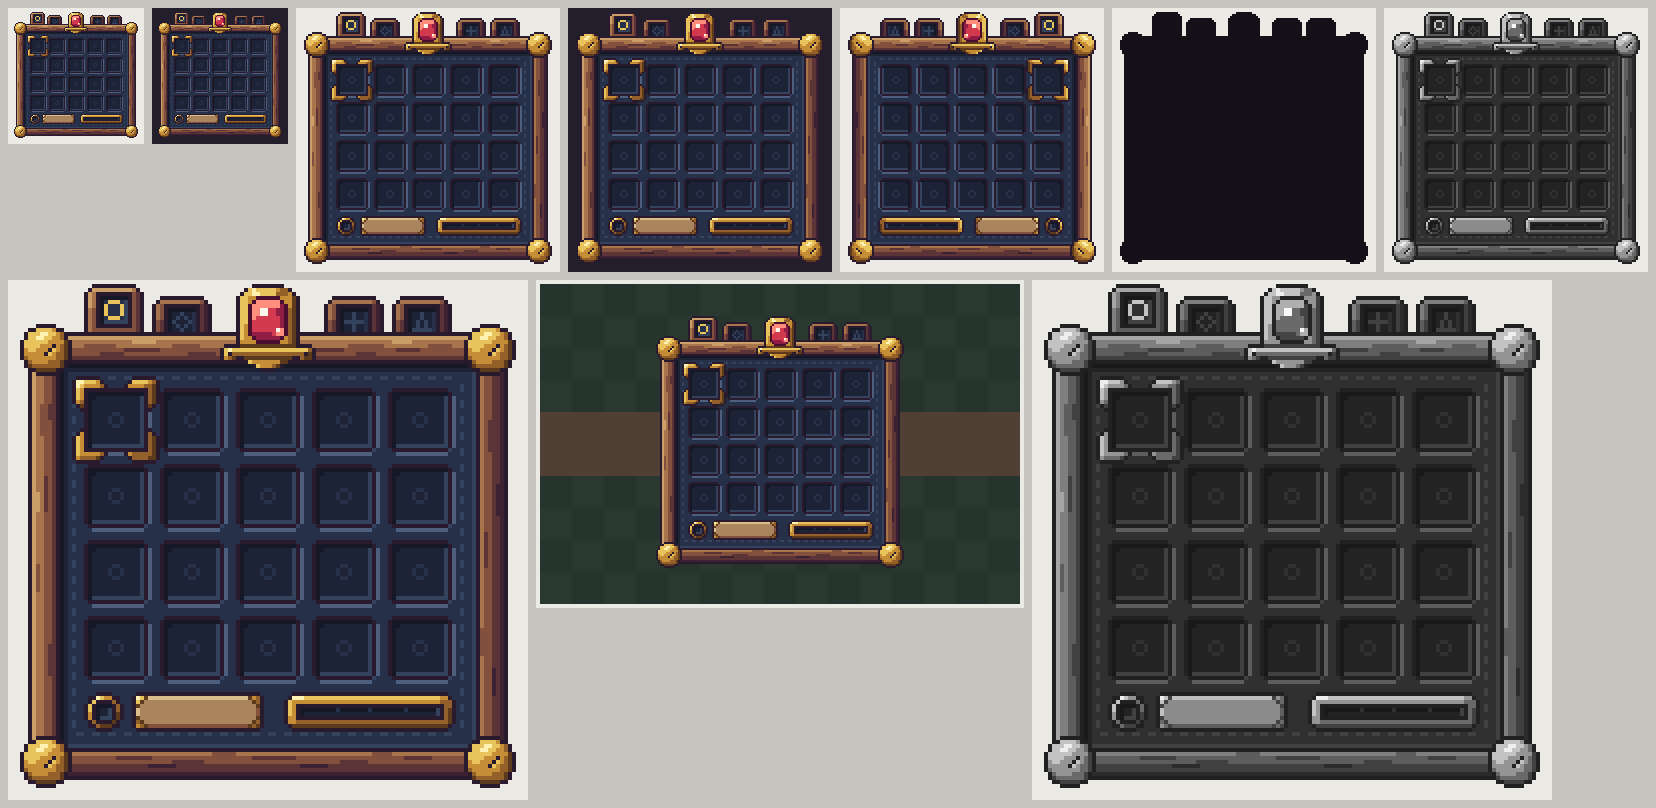
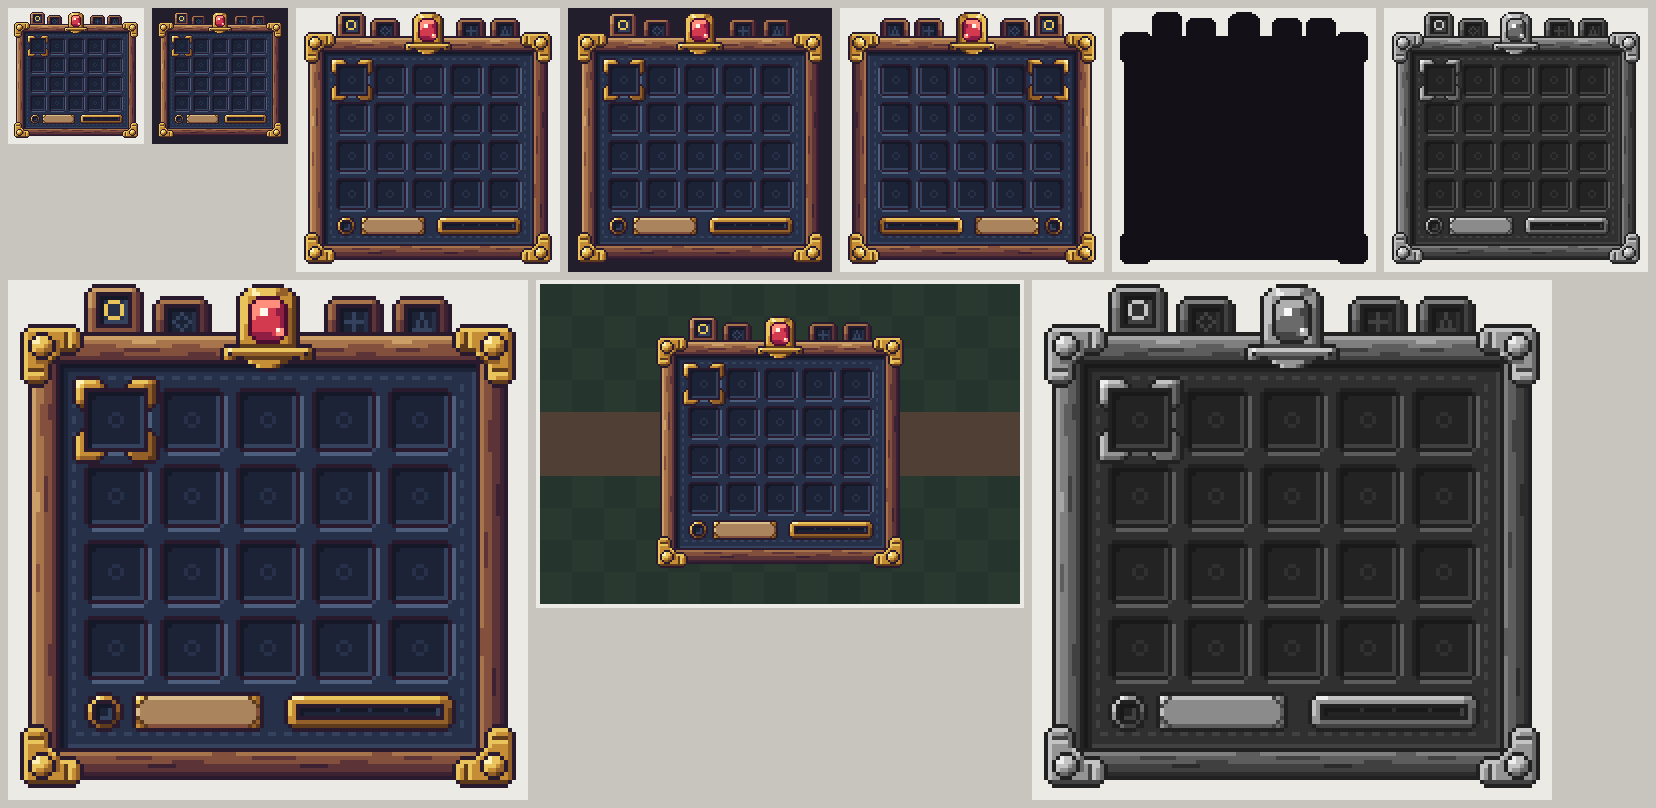
Inventaire : coins de coffre en laiton à la place des bossettes
Claude-Session: https://claude.ai/code/session_013wkJTCTwukCLdUSFsReJoa

diff --git a/methode_dessin/test15_inventaire/coins.py b/methode_dessin/test15_inventaire/coins.py
@@ -1,0 +1,103 @@
+"""Coins de coffre (v2, remplacent les bossettes). Pièce 16×16.
+
+Le coin haut-gauche est dessiné à la main en ÉTIQUETTES de surface :
+  O trait · T biseau tourné vers le haut · L vers la gauche · R vers la droite ·
+  B vers le bas · F face plate · . vide
+Les trois autres coins = miroir de la géométrie ; la lumière reste en haut-gauche,
+donc un miroir horizontal échange L↔R et un miroir vertical échange T↔B (règle décidée,
+pas une ombre calculée). Ensuite : étiquette → couleur, puis on pose à la main le dôme,
+les gorges gravées et l'ombre portée du dôme, coin par coin.
+"""
+import sys
+
+# bras du haut, colonnes 10..15, rangées 0..7 (dessiné à la main) : lobe arrondi au bout
+BRAS = [
+    "OOOO..",
+    "TTTTO.",
+    "FFFFRO",
+    "FFFFRO",
+    "FFFFRO",
+    "FFFBRO",
+    "BBBBO.",
+    "OOOO..",
+]
+# carré du coin 10×10 (assise du dôme) : chanfrein extérieur, coin intérieur arrondi
+CARRE = [
+    "..OOOOOOOO",
+    ".OTTTTTTTT",
+    "OLFFFFFFFF",
+    "OLFFFFFFFF",
+    "OLFFFFFFFF",
+    "OLFFFFFFFF",
+    "OLFFFFFFFF",
+    "OLFFFFFFFR",
+    "OLFFFFFFBO",
+    "OLFFFFFBO.",
+]
+TRANS = {'T': 'L', 'L': 'T', 'R': 'B', 'B': 'R'}   # bras gauche = bras du haut transposé
+
+
+def coin_hg():
+    G = [['.'] * 16 for _ in range(16)]
+    for y in range(10):
+        for x in range(10):
+            G[y][x] = CARRE[y][x]
+    for y in range(8):
+        for x in range(6):
+            G[y][x + 10] = BRAS[y][x]
+            G[x + 10][y] = TRANS.get(BRAS[y][x], BRAS[y][x])
+    return G
+
+
+def miroir(G, h, v):
+    swap = {}
+    if h: swap.update({'L': 'R', 'R': 'L'})
+    if v: swap.update({'T': 'B', 'B': 'T'})
+    H = [r[::-1] if h else r[:] for r in G]
+    if v: H = H[::-1]
+    return [[swap.get(c, c) for c in r] for r in H]
+
+
+COUL = {'T': 'y', 'L': 'y', 'F': 'j', 'R': 'i', 'B': 'h'}
+
+# dôme 7×7, éclairé en haut-gauche (dessiné à la main, identique aux 4 coins)
+DOME = [
+    "..OOO..",
+    ".OzyyO.",
+    "OzzyyjO",
+    "OyyyjiO",
+    "OyjjiiO",
+    ".OiihO.",
+    "..OOO..",
+]
+
+# par coin : (miroir h, miroir v, position du dôme, gorges, ombre portée du dôme)
+# gorge = trait sombre h + arête claire y du côté qui regarde la lumière (à droite / dessous)
+COINS = {
+    'hg': (False, False, (2, 2),
+           [('h', 11, 2, 11, 5), ('y', 12, 2, 12, 5), ('h', 2, 11, 5, 11), ('y', 2, 12, 5, 12)],
+           [(9, 4), (9, 5), (9, 6), (4, 9), (5, 9), (6, 9)]),
+    'hd': (True, False, (7, 2),
+           [('h', 3, 2, 3, 5), ('y', 4, 2, 4, 5), ('h', 10, 11, 13, 11), ('y', 10, 12, 13, 12)],
+           [(9, 9), (10, 9), (11, 9)]),
+    'bg': (False, True, (2, 7),
+           [('h', 11, 10, 11, 13), ('y', 12, 10, 12, 13), ('h', 2, 3, 5, 3), ('y', 2, 4, 5, 4)],
+           [(9, 9), (9, 10), (9, 11)]),
+    'bd': (True, True, (7, 7),
+           [('h', 3, 10, 3, 13), ('y', 4, 10, 4, 13), ('h', 10, 3, 13, 3), ('y', 10, 4, 13, 4)],
+           []),
+}
+
+for nom, (h, v, (dx, dy), gorges, ombre) in COINS.items():
+    G = [[COUL.get(c, c) for c in r] for r in miroir(coin_hg(), h, v)]
+    for c, x1, y1, x2, y2 in gorges:
+        for y in range(y1, y2 + 1):
+            for x in range(x1, x2 + 1):
+                G[y][x] = c
+    for x, y in ombre:
+        G[y][x] = 'i'
+    for y, r in enumerate(DOME):
+        for x, c in enumerate(r):
+            if c != '.': G[dy + y][dx + x] = c
+    open(f'pieces/coin_{nom}.txt', 'w').write('\n'.join(''.join(r) for r in G) + '\n')
+    print(nom); print('\n'.join(''.join(r) for r in G))

diff --git a/methode_dessin/test15_inventaire/calques.py b/methode_dessin/test15_inventaire/calques.py
@@ -1,7 +1,7 @@
 """Planche des calques (E6) : chaque pièce seule à ×3, dans l'ordre d'empilement, puis l'assemblage."""
 from PIL import Image
 noms = ['etape00_construction', 'cadre', 'case', 'barre', 'onglet_rond_actif', 'onglet_losange_inactif',
-        'onglet_croix_inactif', 'onglet_pic_inactif', 'bossette', 'logement', 'rubis', 'cimier', 'curseur']
+        'onglet_croix_inactif', 'onglet_pic_inactif', 'coin_hg', 'coin_hd', 'coin_bg', 'coin_bd', 'logement', 'rubis', 'cimier', 'curseur']
 k, m = 3, 6
 ims = [Image.open(f'pieces/{n}.png').convert('RGBA') for n in noms]
 W = sum(i.width * k + m for i in ims[:2]) + m

diff --git a/methode_dessin/test15_inventaire/NOTES.md b/methode_dessin/test15_inventaire/NOTES.md
@@ -62,3 +62,15 @@ pièce telle quelle, les `.` restent transparents.
   d'1 px), et l'ombre tourne avec le coin (clair en haut-gauche, sombre en bas-droite).
 - Leçon : un filet d'or d'1 px se lit comme un trait de couleur ; à partir de 2 tons
   (clair + sombre) il se lit comme du métal en relief.
+
+## v3 — coins de coffre (remplacent les bossettes)
+- Les 4 bossettes rondes sont remplacées par des **équerres de laiton** de 16×16
+  (`coins.py` → `pieces/coin_{hg,hd,bg,bd}.txt`) : une plaque en L qui enveloppe l'angle,
+  deux bras courts finis en lobe arrondi avec une rainure, et un **dôme de rivet** dans l'angle.
+- Le coin haut-gauche est dessiné à la main en étiquettes de biseau (haut, gauche, plat,
+  droite, bas). Les trois autres en sont des miroirs, avec échange des biseaux pour que la
+  lumière reste en haut à gauche partout.
+- Leçons :
+  - le dôme collé au bord de la plaque crée un double trait : le décaler d'1 px ;
+  - un dôme du même ton que la plaque disparaît : corps en clair (y) et reflet z de 3 px ;
+  - les bras du haut sont limités par l'onglet actif (x18).
